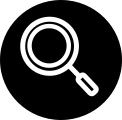
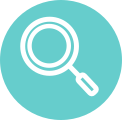
Add colors to template

diff --git a/WebContent/common/css/style.css b/WebContent/common/css/style.css
@@ -3,6 +3,41 @@
 /*********************************
 common components
 **********************************/
+/****** header ******/
+header{
+	padding: 15px;
+    color: white;
+    background: #66cdcc; /* For browsers that do not support gradients */
+    background: linear-gradient(to bottom right, #326698, #66cdcc); /* Standard syntax (must be last) */
+	margin-bottom: 15px;
+}
+header #btn-account{
+	color: white;
+	margin: 10px;
+}
+ul.dropdown-menu.show{
+	padding: 20px;
+}
+/****** menu ******/
+nav h2{
+	color: #66cdcc;
+}
+nav ul{
+	height:50px;
+	padding: 0;
+	text-align: justify;
+	text-justify: distribute-all-lines; 
+}
+nav ul:after{
+	content:"";
+	display: inline-block;
+	width: 100%;
+	line-height:0;
+	height: 0;
+}
+nav li{
+	display: inline-block;
+}
 /****** footer ******/
 footer {
     padding: 15px;
